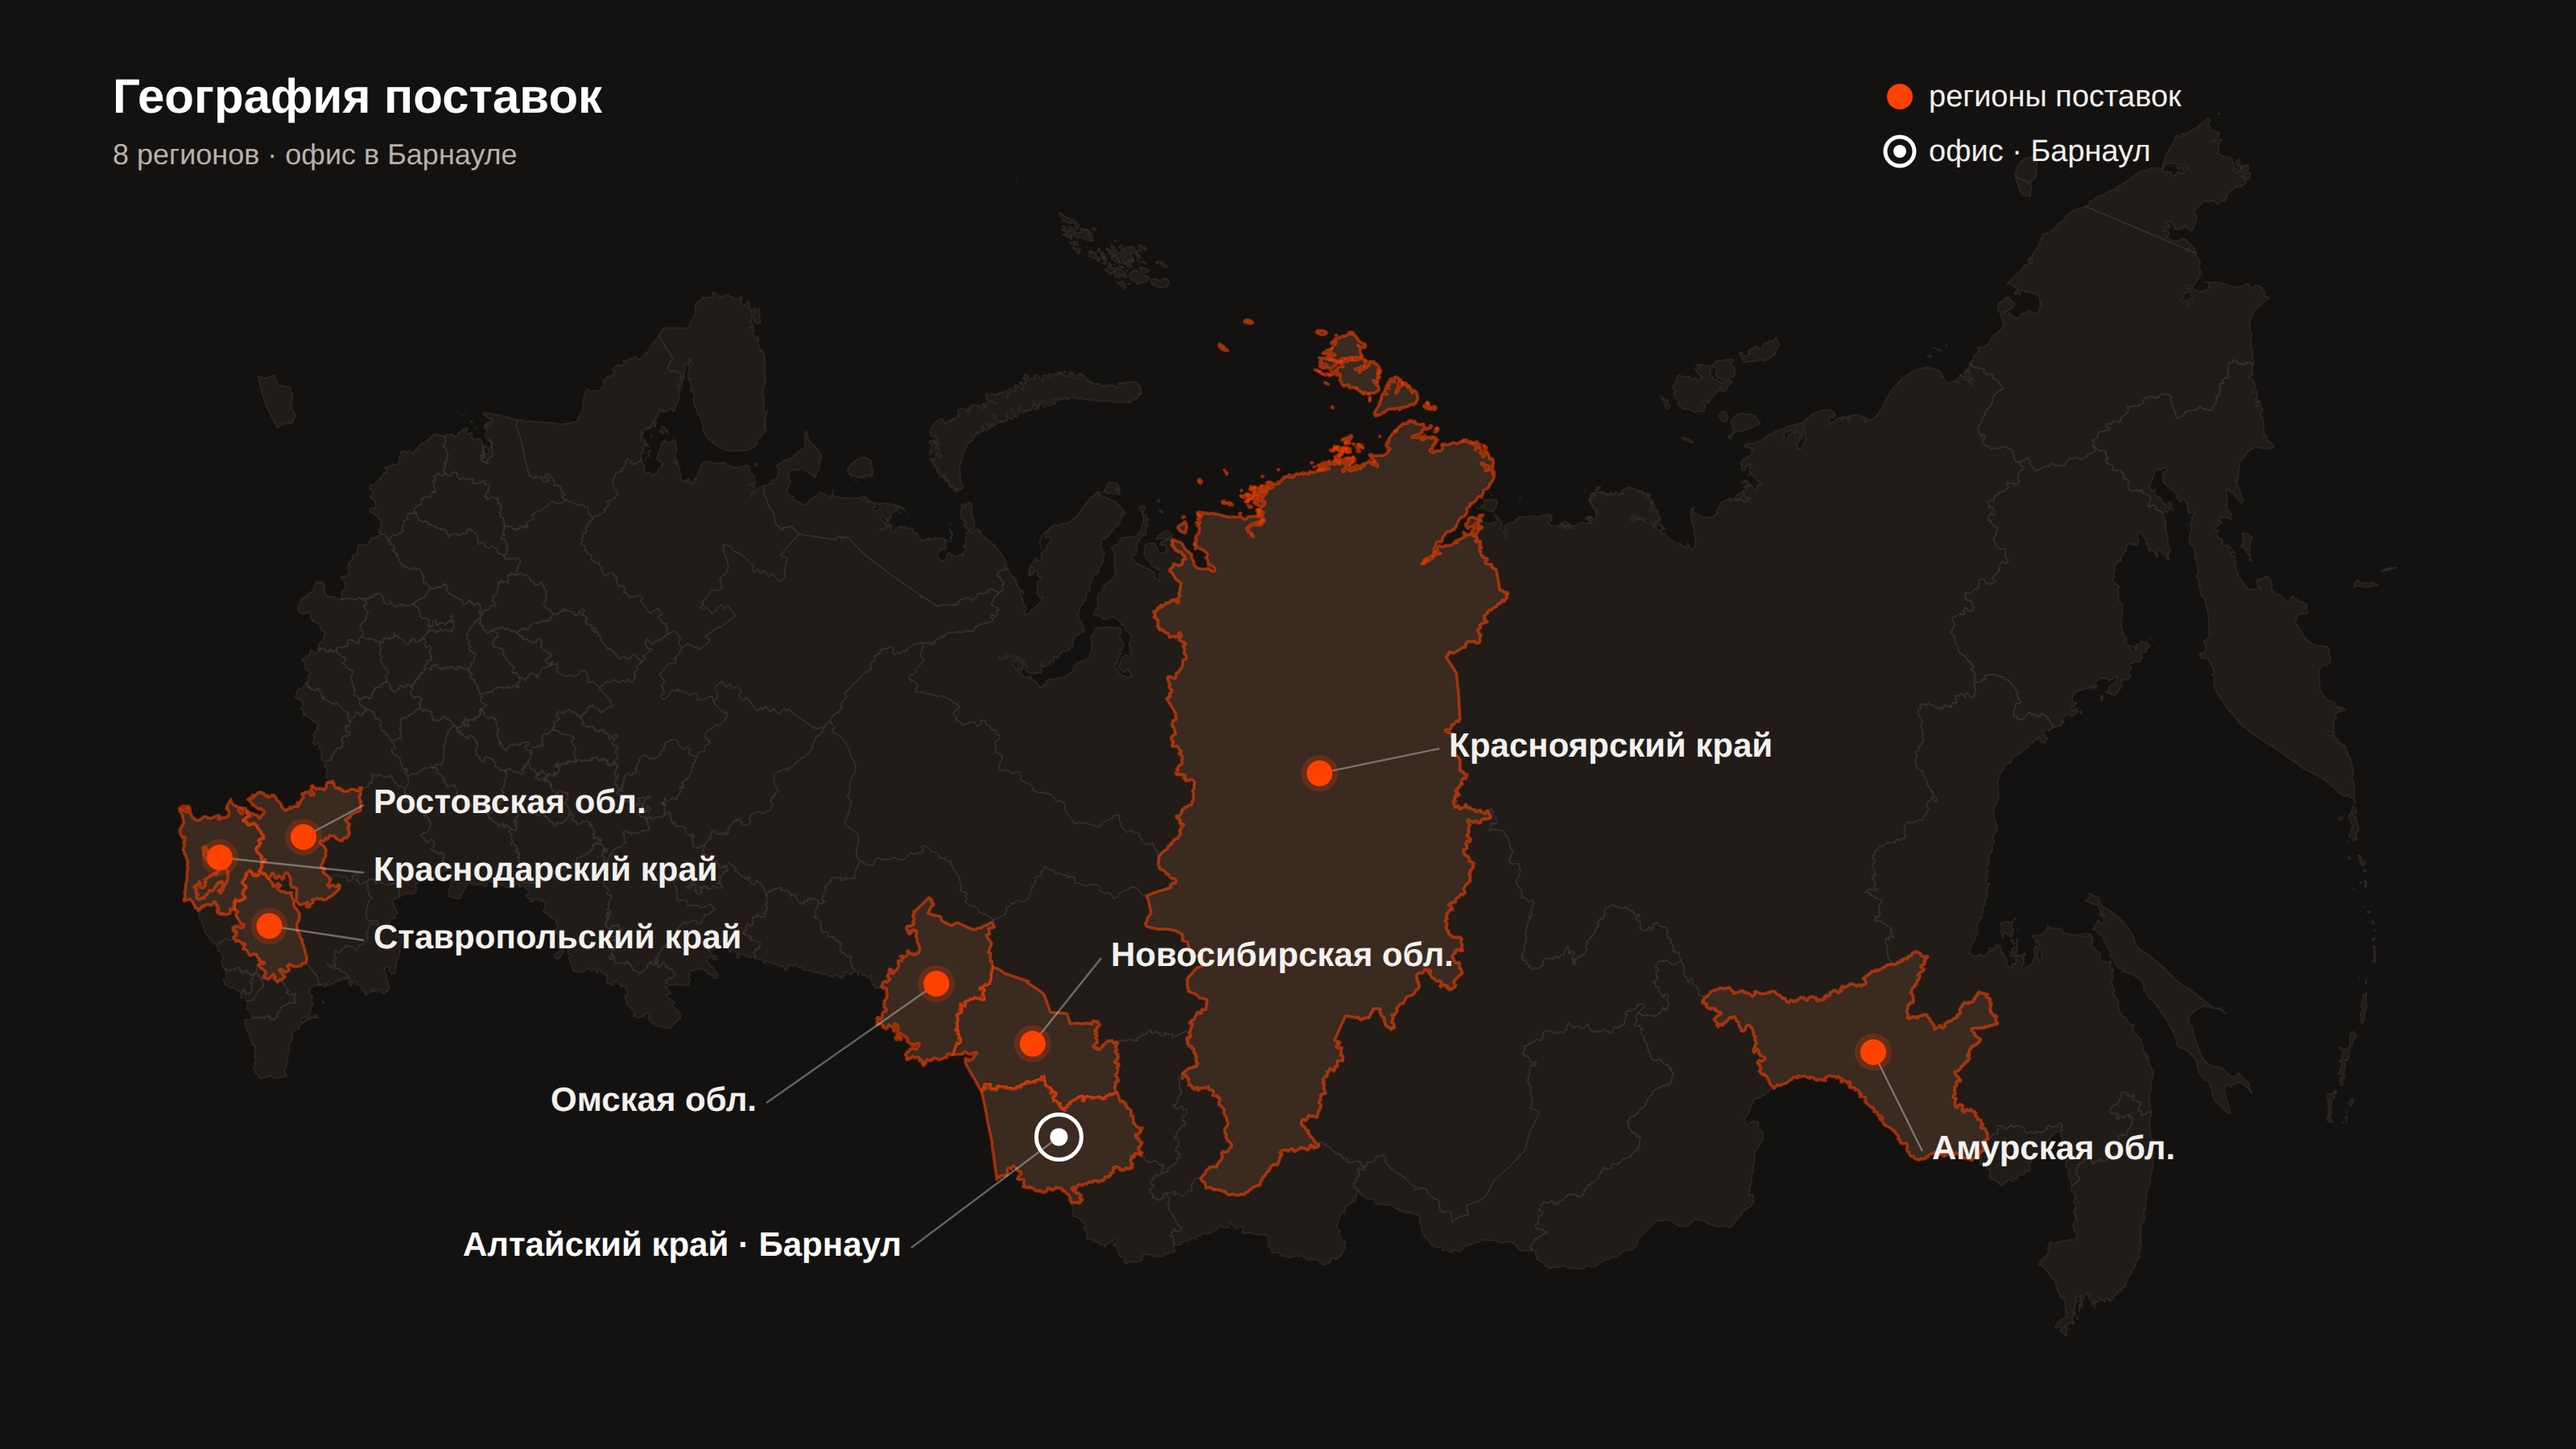
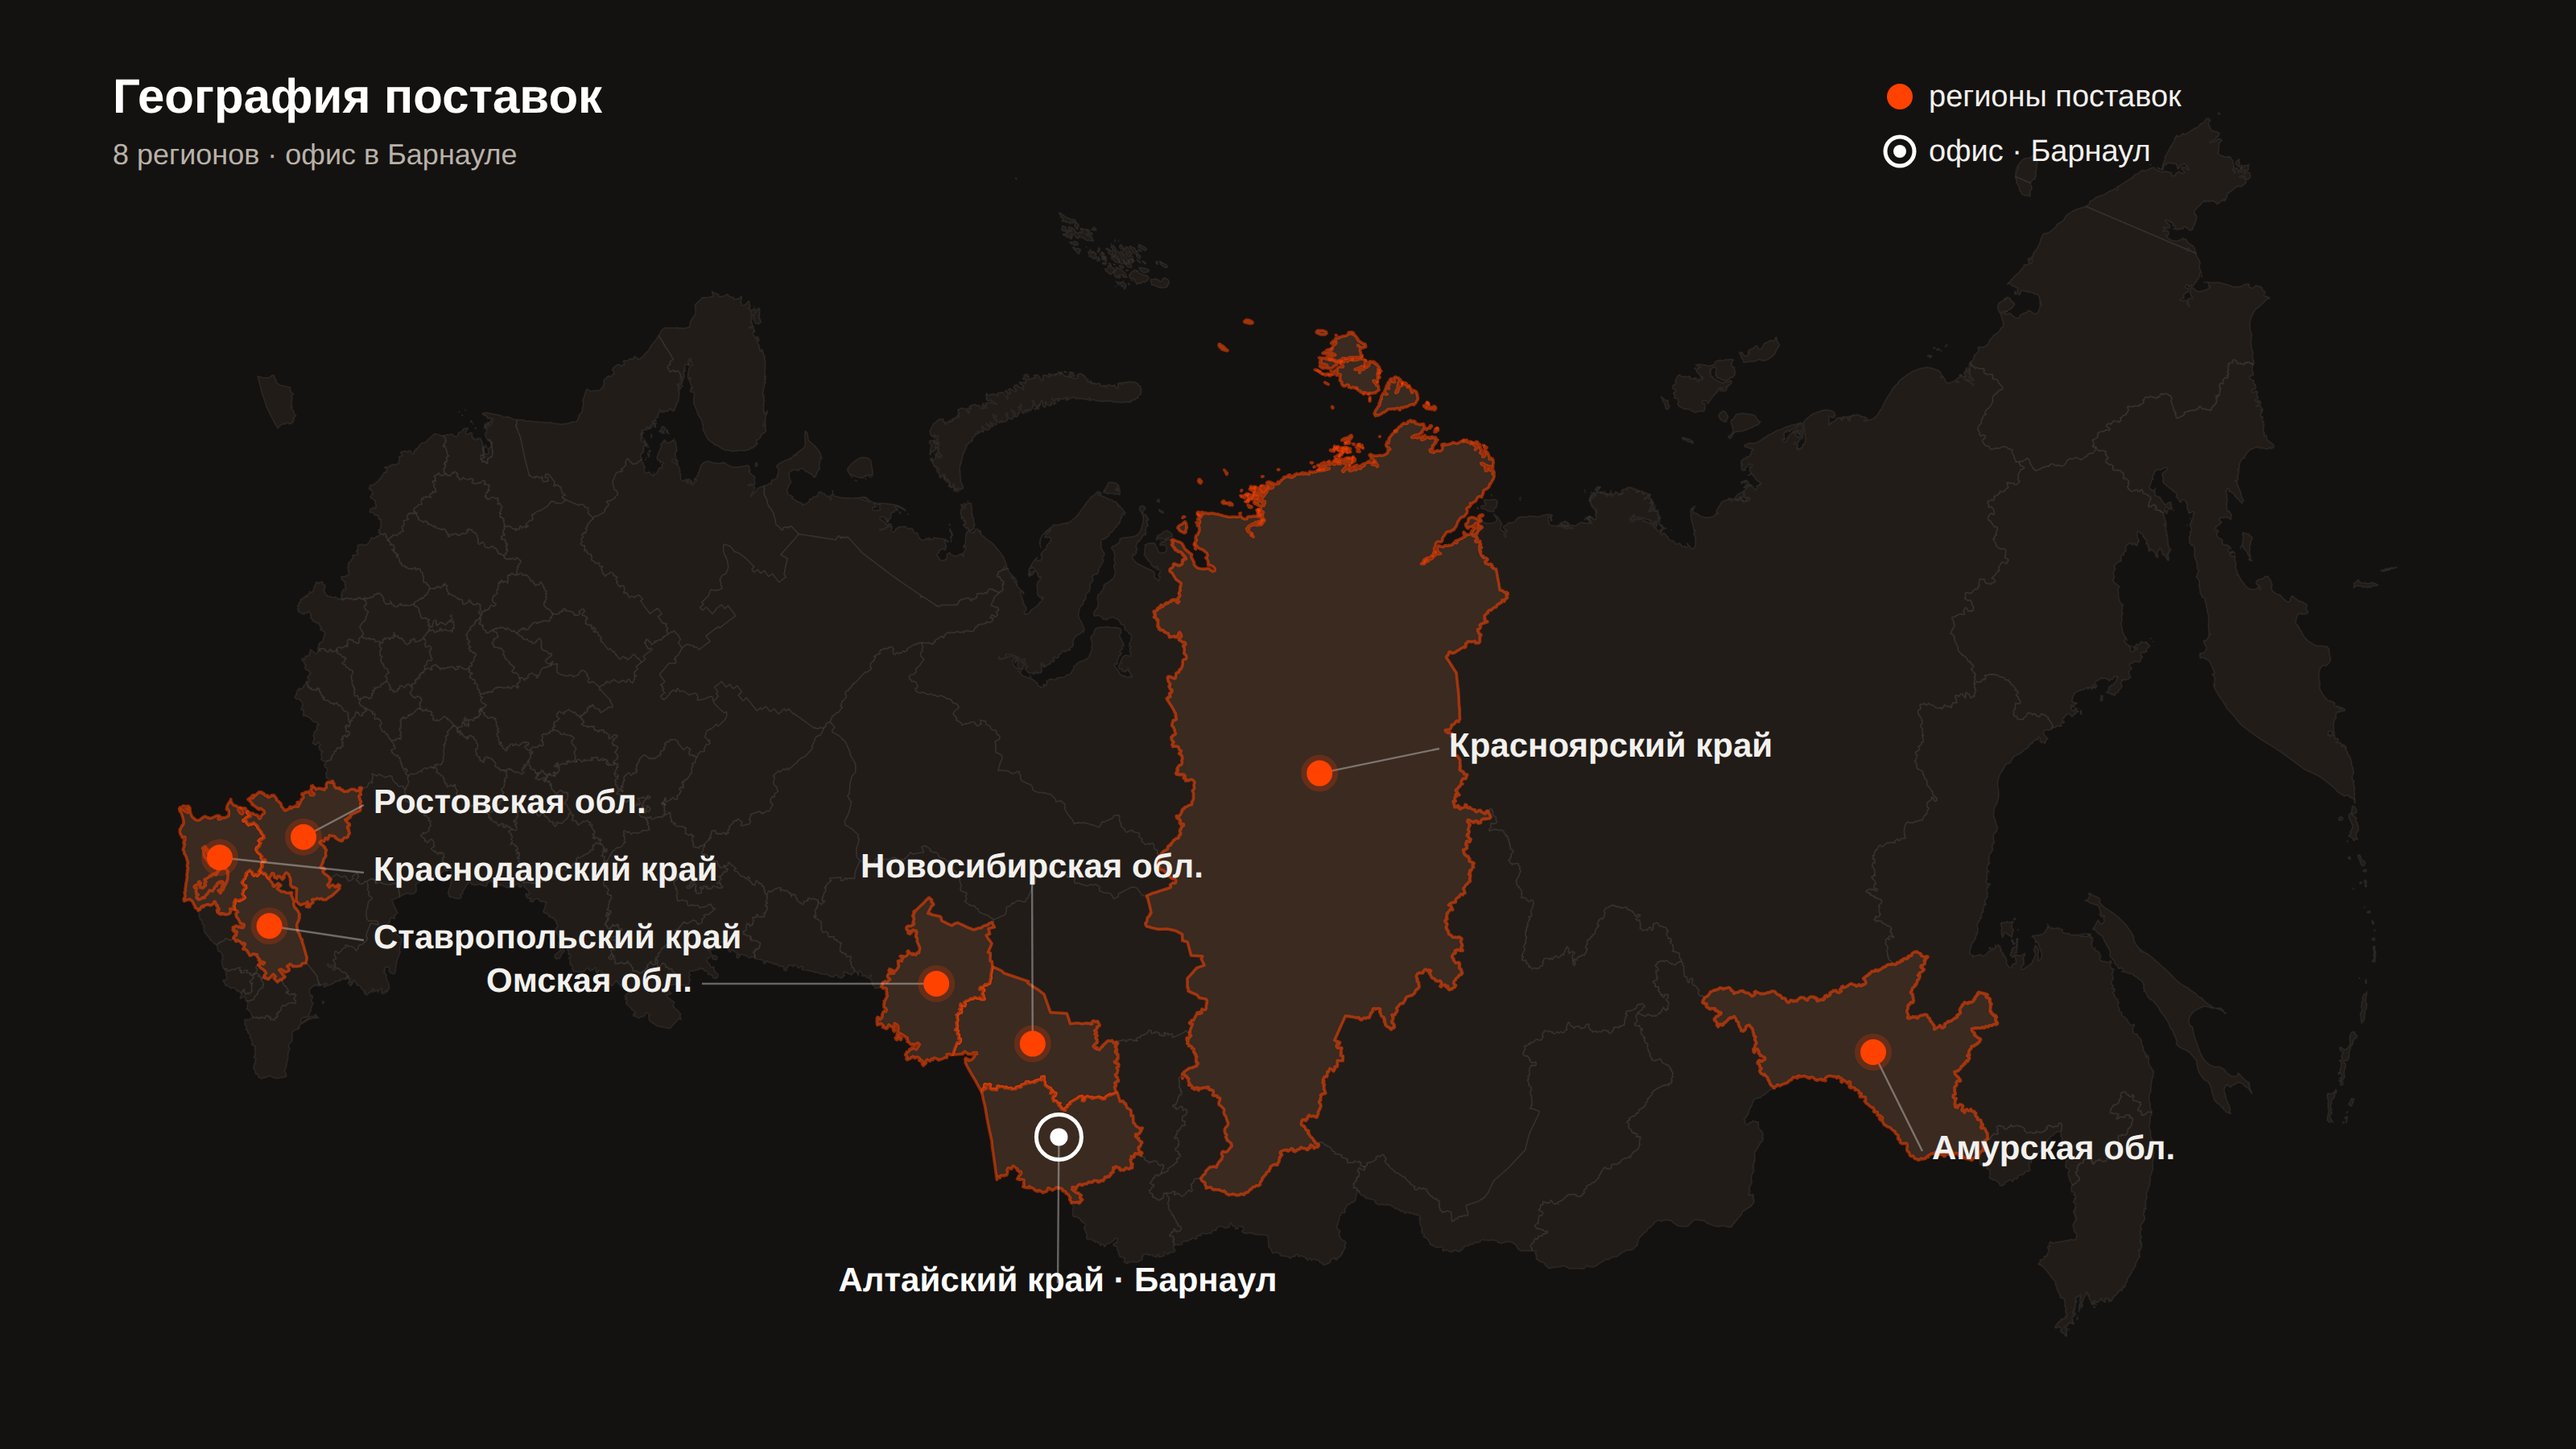
design(geo-map): развёл подписи центральной тройки (Омск влево / Новосибирск вверх / Алтай вниз), выноски не пересекаются

diff --git a/design/geo-map/build_map.py b/design/geo-map/build_map.py
@@ -66,9 +66,9 @@ LAB={
  "Ростовская область":   (232,505,"start"),
  "Краснодарский край":   (232,547,"start"),
  "Ставропольский край":  (232,589,"start"),
- "Омская область":       (470,690,"end"),
- "Новосибирская область":(690,600,"start"),
- "Алтайский край":       (560,780,"end"),
+ "Омская область":       (430,616,"end"),     # влево
+ "Новосибирская область":(641,545,"middle"),  # вверх
+ "Алтайский край":       (657,802,"middle"),  # вниз (офис-Барнаул)
  "Красноярский край":    (900,470,"start"),
  "Амурская область":     (1200,720,"start"),
 }
